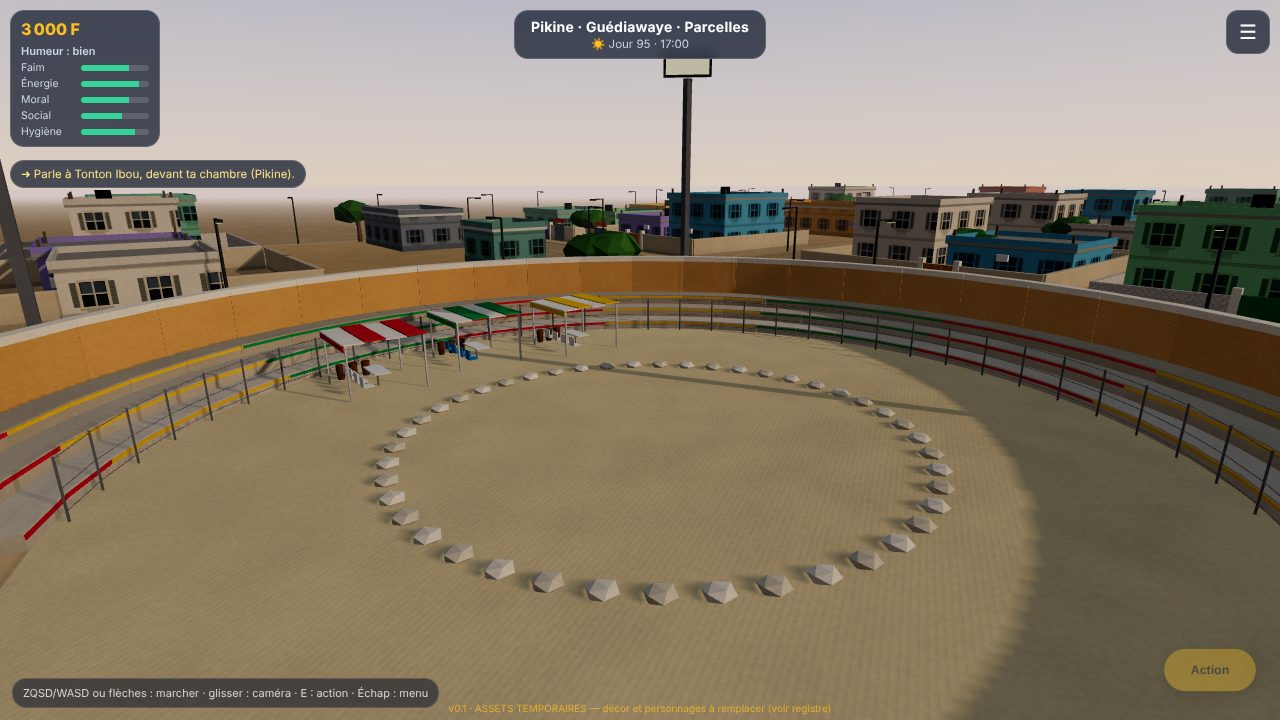
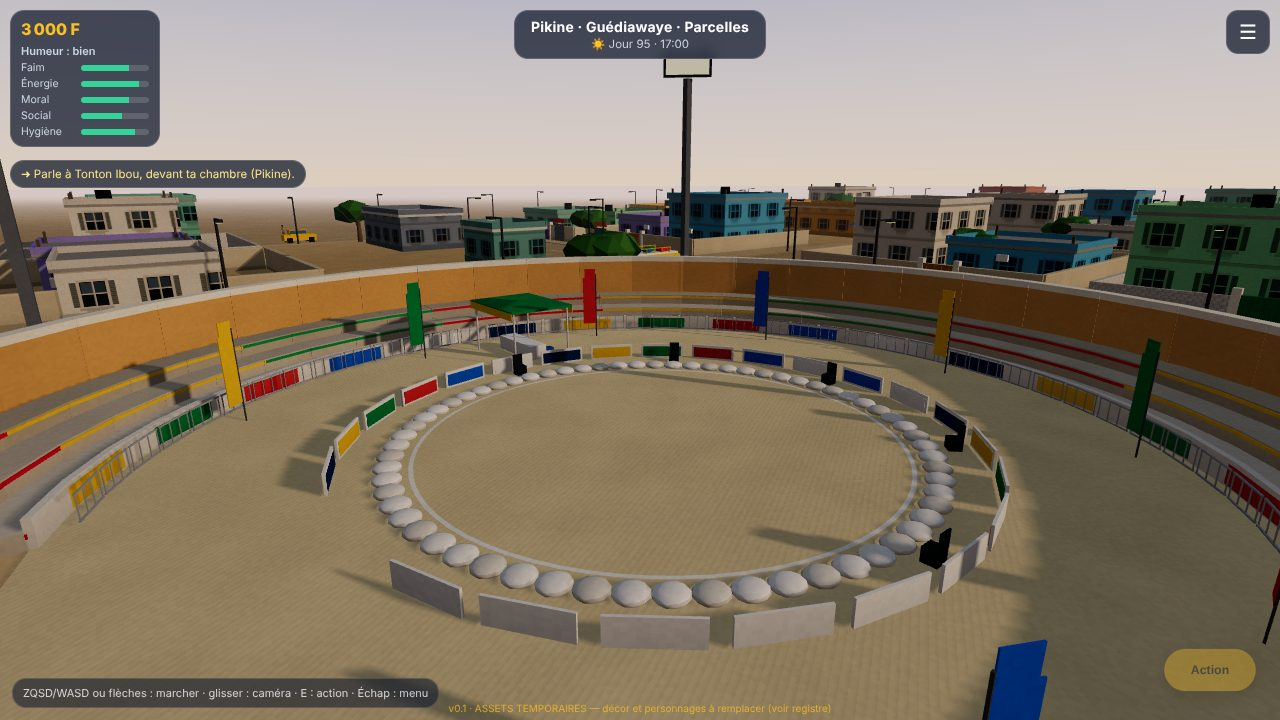
Merge the Mac session's arena ring side (Habib's photos); drop my overlapping fence and canopies, keep the gate barriers and vendors
Claude-Session: https://claude.ai/code/session_01KfuK7yGLYyaNjurRCF8cfb

diff --git a/src/world/builder.ts b/src/world/builder.ts
@@ -854,25 +854,7 @@ export function buildHub(id: HubId, lite = false): HubWorld {
           lampBulbs.box(2.7, 1.1, 0.05, x - Math.sin(a) * 0.62, 15.15, z - Math.cos(a) * 0.62, 0xfff3d0, a);
           solidC(x, z, 0.6, 0.6, 15);
         }
-        // After Higgsfield references #22–24 (artistic interpretations; set-up UNREVIEWED):
-        // wire fence between the field and the stands
-        const fenceR = 16.9;
-        for (let s2 = 0; s2 < 56; s2++) {
-          const a = (s2 / 56) * Math.PI * 2; if (gateGap(a)) continue;
-          const x = cx + Math.sin(a) * fenceR, z = cz + Math.cos(a) * fenceR, a2 = ((s2 + 1) / 56) * Math.PI * 2;
-          plain.box(0.06, 1.9, 0.06, x, B, z, 0x6f7377);
-          if (!gateGap(a2)) for (const y of [0.35, 1.0, 1.85]) limb(plain, [x, B + y, z], [cx + Math.sin(a2) * fenceR, B + y, cz + Math.cos(a2) * fenceR], 0.015, 0.015, 0x8a8f93, 3);
-        }
-        // officials' and guests' canopies at the ring side (east), with a table, plastic chairs and resting drums
-        for (const [n, a] of [1.2, 1.6, 2.0].entries()) {
-          const tx = cx + Math.sin(a) * 13.6, tz = cz + Math.cos(a) * 13.6, col = [0xf4c20d, 0x1a9d54, 0xd9322b][n];
-          for (const [dx, dz] of [[-1.6, -1.6], [1.6, -1.6], [-1.6, 1.6], [1.6, 1.6]]) plain.box(0.07, 2.4, 0.07, tx + dx, B, tz + dz, 0xcfcfcf);
-          for (let k2 = 0; k2 < 4; k2++) plain.box(3.4, 0.06, 0.86, tx, B + 2.4 + (k2 % 2) * 0.05, tz - 1.3 + k2 * 0.86, k2 % 2 ? col : 0xf3eee2);
-          plain.box(3.4, 0.3, 0.04, tx, B + 2.15, tz - 1.7, col);
-          plain.box(1.6, 0.05, 0.7, tx, B + 0.72, tz, 0xf2f2ee); plain.box(0.06, 0.72, 0.06, tx, B, tz, 0x888888);
-          for (let c2 = 0; c2 < 4; c2++) { const chx = tx - 1.2 + c2 * 0.8; plain.box(0.45, 0.05, 0.45, chx, B + 0.45, tz - 0.8, n === 1 ? 0x2a8fd1 : 0xf2f2ee); plain.box(0.45, 0.45, 0.05, chx, B + 0.45, tz - 1.0, n === 1 ? 0x2a8fd1 : 0xf2f2ee); }
-          for (let d2 = 0; d2 < 3; d2++) plain.cyl(0.2, 0.15, 0.7, tx + 2.0, B, tz - 1.0 + d2 * 0.55, 0x7a4a26, 10);   // drums resting on the sand
-        }
+        // After Higgsfield reference #24 (artistic interpretation; set-up UNREVIEWED). The ring side follows Habib's photos above.
         // outside: crowd barriers along the queue to the gate, and vendors under parasols
         const gzz = cz - wallR;
         for (const sx of [-1, 1]) for (let k2 = 0; k2 < 6; k2++) {

diff --git a/docs/ASSET_REGISTER.md b/docs/ASSET_REGISTER.md
@@ -9,7 +9,7 @@ Every asset has a row. **TEMP** = temporary, to be replaced or revised through t
 | Higgsfield-generated textures in game: breeze block, sand, painted metal (desaturated detail maps), terracotta floor tiles | `public/assets/tex/*.jpg` from `assets-src/references/higgsfield/` #12, #13, #16, #15 | Generated with Higgsfield (Nano Banana Pro), owned by Habib per Higgsfield terms (checked 7 Oct 2026); processing in `assets-src/references/PROVENANCE.md` | — | TEMP | Seam-checked 3×3; textures await Habib's review |
 | Dibiterie (open front, tin awning, charcoal grill with smoke, butcher's counter, hanging meat, bench, tables, cook, butcher, customers) | `src/world/builder.ts` (`dibiterie`), Pikine and Plateau | Own code, guided by Higgsfield reference #10 | merged | TEMP | Not reviewed |
 | Maïga interior and front (peeling walls, gas rings, dented pots, long oilcloth table, bench, wall fan, strip curtain) | `src/world/interiors.ts`, `src/world/builder.ts` | Own code, after Higgsfield reference #18 | ~1.5k | TEMP | Not reviewed |
-| Arena additions: wire fence, officials' canopies with tables, chairs and drums, crowd barriers, vendors at the gate | `src/world/builder.ts` (`case 'arena'`) | Own code, after Higgsfield references #22–24 | merged | TEMP | **Unreviewed** set-up |
+| Arena exterior: open steel crowd barriers along the gate queue, vendors under parasols | `src/world/builder.ts` (`case 'arena'`) | Own code, after Higgsfield reference #24 | merged | TEMP | **Unreviewed** set-up |
 | Higgsfield textures v2 in game: paving (sidewalks, plazas), wood planks (interior furniture) | `public/assets/tex/paving.jpg`, `wood.jpg` from #21, #19 (seam-fixed) | Generated with Higgsfield; processing in PROVENANCE.md | — | TEMP | Seam-checked 3×3 |
 | Surface grain and night-window shader | `src/world/grain.ts` | Own code | — | TEMP | Not reviewed |
 | Sky dome | `src/world/sky.ts` | Own code | 960 | TEMP | Not reviewed |
